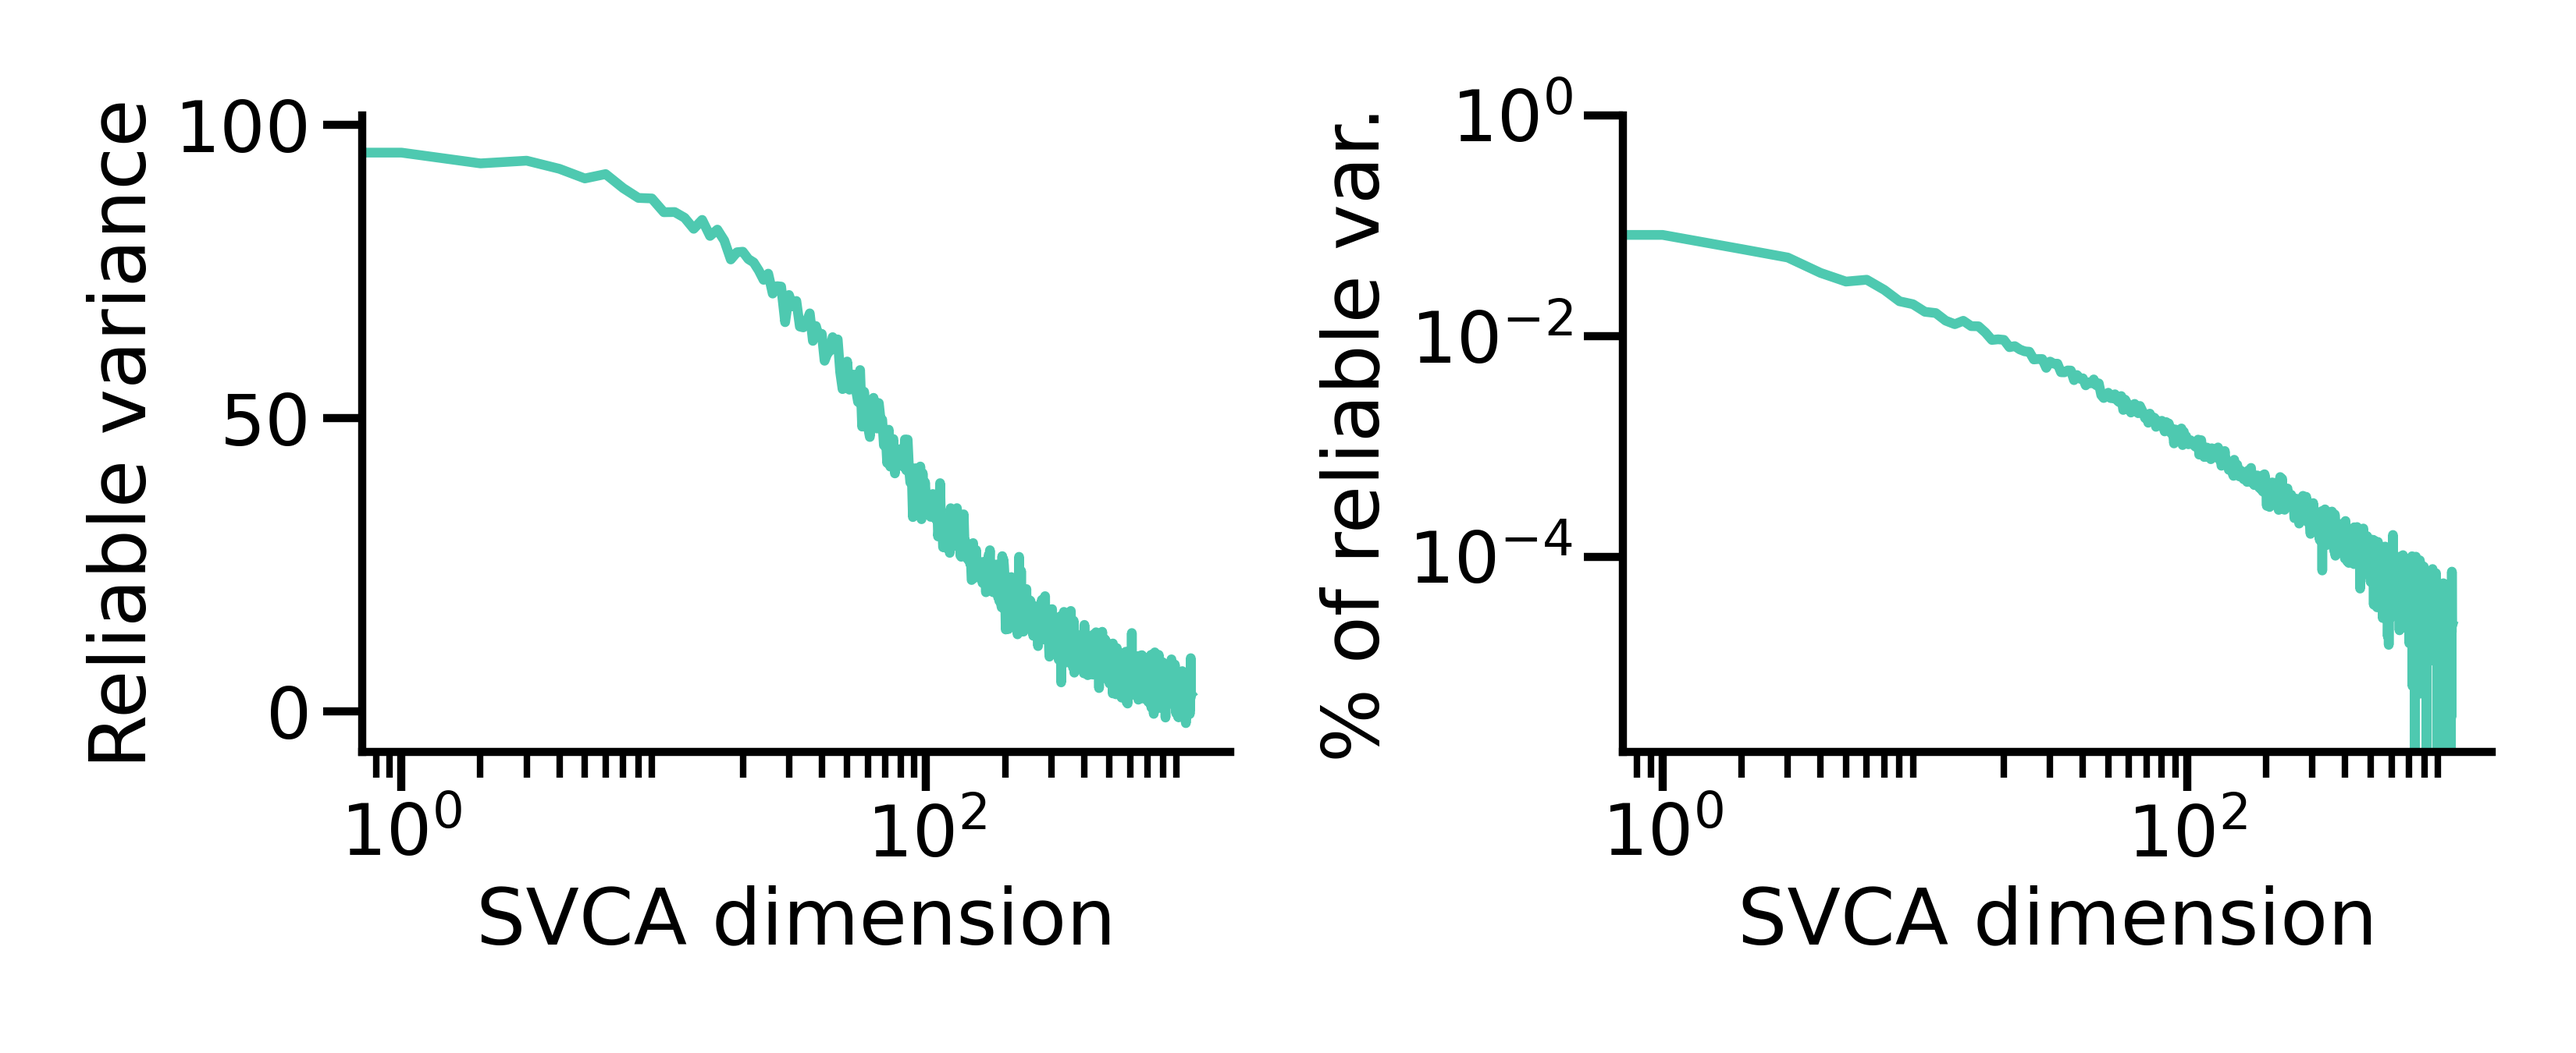
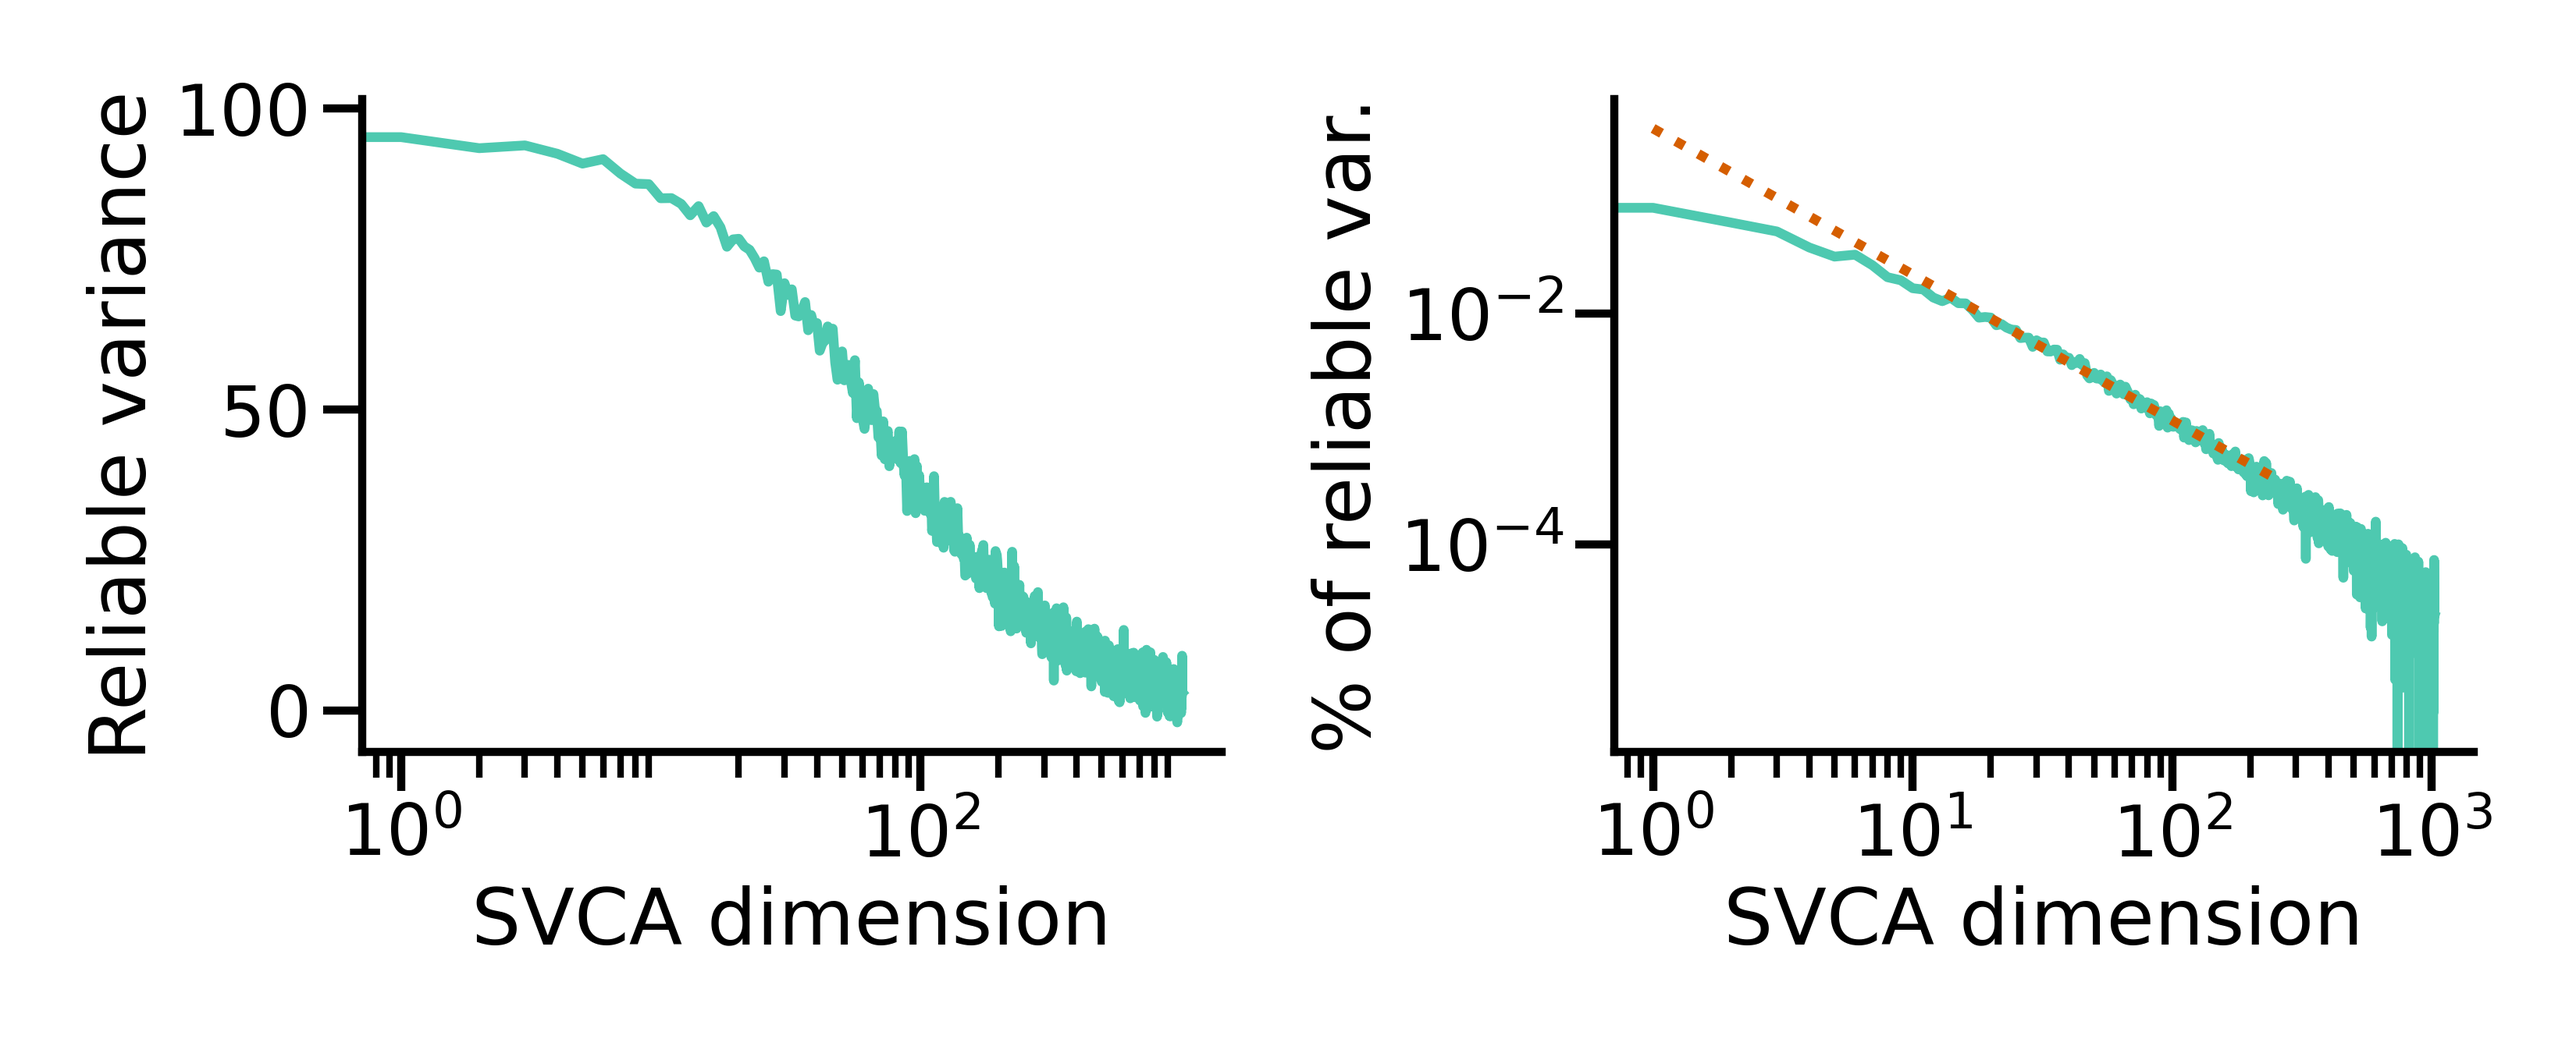
Add utils and power law fit

diff --git a/src/utils.py b/src/utils.py
@@ -1,0 +1,32 @@
+"""
+Helper functions
+"""
+import numpy as np
+
+def fit_power_law(x, y):
+    # Linear regression in log-log space
+    # returns p, a in y = a*x^p
+    Y = np.log(y)
+    X = np.ones((len(x), 2))
+    X[:,0] = np.log(x)
+    beta = np.linalg.inv(X.T@X)@X.T@Y
+    p, a = beta[0], np.exp(beta[1])
+    return p, a
+
+def scree_plot(reliable_variance, all_variance, rank = None, title = None):
+    # Helper function for plotting the spectrum
+    fig, ax = plt.subplots(1, 2, figsize=(10,4.2))
+    ax[0].semilogx(reliable_variance / all_variance * 100, color=GREEN)
+    ax[0].set_ylabel("Reliable var")
+    ax[1].loglog(reliable_variance / np.sum(reliable_variance), color=GREEN)
+    ax[1].set_ylabel("% of reliable var")
+
+    for i, y in enumerate([30, 1]):
+        ax[i].set_xlabel("SVC dimension")
+        ax[i].set_title(title)
+        if rank is not None:
+            ax[i].scatter(rank-1, y, color=sns.color_palette()[3], marker='v')
+
+    sns.despine()
+    fig.tight_layout()
+    return fig, ax

diff --git a/README.md b/README.md
@@ -1,6 +1,6 @@
 # Shared Variance Component Analysis (SVCA)
 Shared Variance Component Analysis (SVCA, [Stringer et al.](https://doi.org/10.1126/science.aav7893)) is a
-clever and straightforward method to estimate the dimensionality of (neural) data. This repository contains a
+straightforward yet rigorous method to estimate the dimensionality of (neural) data. This repository contains a
 Python-based implementation. See `docs/` for an application to data from the paper, and to synthetic data.
 
 ![SVCA](./figures/SVCA.png)
